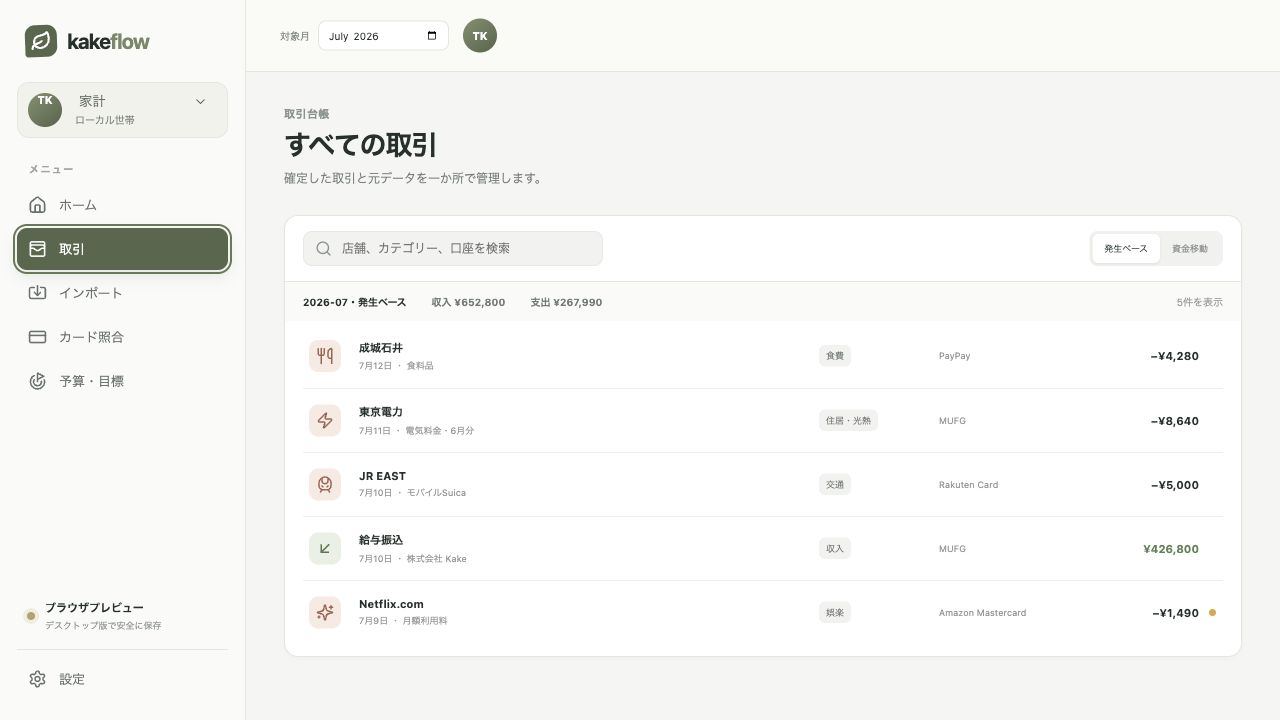
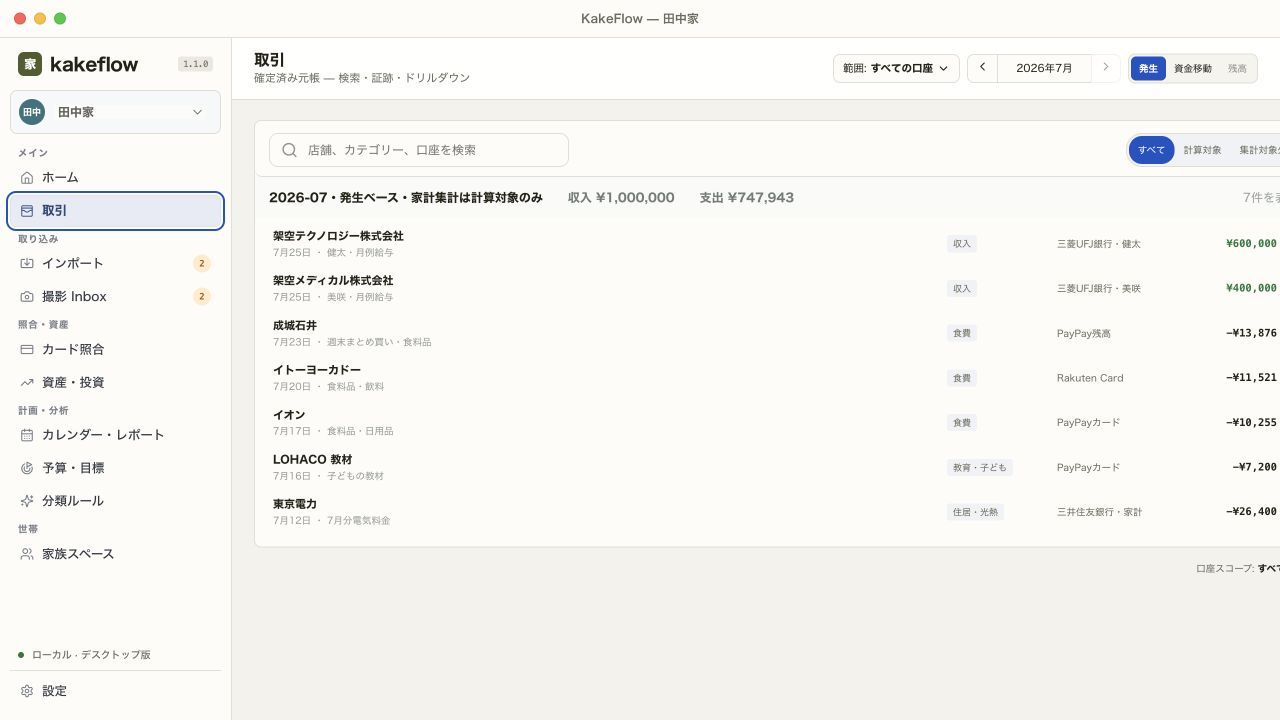
Rewrite KakeFlow page for new UI

diff --git a/apps/kakeflow/index.html b/apps/kakeflow/index.html
@@ -3,18 +3,20 @@
 <head>
   <meta charset="utf-8">
   <meta name="viewport" content="width=device-width, initial-scale=1">
-  <title>KakeFlow — 家計の流れを、正しくひとつに。</title>
-  <meta name="description" content="KakeFlow は、銀行・カード・レシート・証券データを、根拠の残る家計簿へまとめる開発中のローカルファースト・デスクトップアプリです。">
+  <title>KakeFlow — 記録から、次のアクションへ。</title>
+  <meta name="description" content="KakeFlow は、家計データを端末内で取り込み、確認し、根拠の残る台帳から次に必要なアクションまで見渡せる、開発中のローカルファースト・デスクトップアプリです。">
   <link rel="canonical" href="https://thangldw.github.io/apps/kakeflow/">
   <meta property="og:type" content="website">
-  <meta property="og:title" content="KakeFlow — Coming soon">
-  <meta property="og:description" content="ばらばらな家計データを、照合できる台帳とダッシュボードへ。">
+  <meta property="og:title" content="KakeFlow — 記録から、次のアクションへ。">
+  <meta property="og:description" content="取り込み、確認、照合、計画を、ひとつの家計ワークスペースで。">
   <meta property="og:url" content="https://thangldw.github.io/apps/kakeflow/">
   <meta property="og:image" content="https://thangldw.github.io/apps/kakeflow/assets/screenshots/kakeflow-overview.png">
+  <meta property="og:image:width" content="1280">
+  <meta property="og:image:height" content="720">
   <meta name="twitter:card" content="summary_large_image">
   <meta name="theme-color" content="#f7f6f1">
   <link rel="icon" href="/favicon.svg" type="image/svg+xml">
-  <link rel="stylesheet" href="kakeflow-page.css?v=20260714">
+  <link rel="stylesheet" href="kakeflow-page.css?v=20260716">
   <script defer src="/js/analytics.js"></script>
 </head>
 <body>
@@ -25,10 +27,10 @@
       <a class="wordmark" href="#top" aria-label="KakeFlow ホーム">kake<span>flow</span></a>
       <button class="menu-toggle" type="button" aria-expanded="false" aria-controls="primary-nav">メニュー</button>
       <nav id="primary-nav" aria-label="ページ内ナビゲーション">
-        <a href="#workflow">仕組み</a>
+        <a href="#workflow">使い方</a>
         <a href="#screens">画面</a>
-        <a href="#investments">投資管理</a>
-        <a href="#roadmap">公開予定</a>
+        <a href="#workspaces">できること</a>
+        <a href="#release">リリース</a>
       </nav>
       <a class="button button-small button-outline" href="/apps/">All projects</a>
     </div>
@@ -39,132 +41,132 @@
       <div class="hero-shell">
         <div class="hero-copy">
           <p class="status-line"><span aria-hidden="true"></span>COMING SOON · PRIVATE DEVELOPMENT</p>
-          <p class="eyebrow">HOUSEHOLD FINANCE, WITH A TRACEABLE SOURCE</p>
-          <h1>家計の流れを、<br><em>正しくひとつに。</em></h1>
-          <p class="hero-lede">銀行、カード、PayPay、レシート、PDF、証券口座。ばらばらの記録をあなたのパソコンでつなぎ、二重計上を防ぎながら、数字の根拠までたどれる家計簿を目指しています。</p>
+          <p class="eyebrow">FROM HOUSEHOLD RECORDS TO THE NEXT ACTION</p>
+          <h1>家計を記録する。<br><em>次にやることまでわかる。</em></h1>
+          <p class="hero-lede">銀行、カード、レシート、電子マネー、証券口座。ばらばらの記録を端末内で取り込み、確認が必要な項目を先に整理。確定した台帳から、今月の状況と次のアクションをひとつの画面で見渡せます。</p>
           <div class="hero-actions">
             <span class="button button-primary button-disabled">Coming soon</span>
-            <a class="button button-paper" href="#workflow">プロダクトの仕組みを見る</a>
+            <a class="button button-paper" href="#workflow">新しい使い方を見る</a>
           </div>
-          <p class="release-note">このページは開発中プロダクトのプレビューです。ソースコード、ダウンロード、リリースはまだ公開していません。</p>
+          <p class="release-note">掲載画面は開発中の UI プレビューです。ソースコード、ダウンロード、正式なリリース日はまだ公開していません。</p>
           <ul class="trust-row" aria-label="KakeFlow の基本原則">
             <li><strong>Local-first</strong><span>家計データは端末内で処理</span></li>
-            <li><strong>Evidence-linked</strong><span>元ファイル・行まで追跡</span></li>
-            <li><strong>Review first</strong><span>確認前に台帳へ記帳しない</span></li>
+            <li><strong>Review-gated</strong><span>確認してから台帳へ反映</span></li>
+            <li><strong>Evidence-linked</strong><span>数字から原本まで追跡</span></li>
           </ul>
         </div>
 
         <figure class="hero-product">
-          <div class="product-bar" aria-hidden="true"><span></span><span></span><span></span><b>KakeFlow · Preview</b></div>
-          <img src="assets/screenshots/kakeflow-overview.png" width="1280" height="1073" alt="KakeFlow の家計概要。純資産、収入、支出、収支推移、最近の取引、カード支払いを表示" fetchpriority="high">
-          <figcaption>家計簿・キャッシュフロー・資産負債を、同じ確定済み台帳から表示します。</figcaption>
+          <div class="product-bar" aria-hidden="true"><span></span><span></span><span></span><b>KakeFlow — 田中家</b></div>
+          <img src="assets/screenshots/kakeflow-overview.png" width="1280" height="720" alt="KakeFlow のホーム画面。純資産、収入、支出、貯蓄見込み、アクションセンター、収支推移を表示" fetchpriority="high">
+          <figcaption>Home は集計結果だけでなく、カード引落、予算超過、重複候補、低信頼度 OCR など、対応が必要な項目を先に示します。</figcaption>
         </figure>
       </div>
     </section>
 
-    <section class="principles" aria-label="KakeFlow が解決する三つの課題">
-      <article><span>01</span><div><b>原本を一つの Inbox へ</b><p>対応する明細、PDF、画像を同じ場所で確認。</p></div></article>
-      <article><span>02</span><div><b>支払いを二重に数えない</b><p>カード利用と後日の銀行引落を分けて照合。</p></div></article>
-      <article><span>03</span><div><b>数値から原本へ戻れる</b><p>集計から取引、元の行やレシートまで追跡。</p></div></article>
+    <section class="principles" aria-label="新しい KakeFlow の三つの体験">
+      <article><span>01</span><div><b>迷わない Home</b><p>状況、重要アクション、データ品質を同じ入口に。</p></div></article>
+      <article><span>02</span><div><b>確認してから記帳</b><p>マッピング、重複、OCR をレビューして確定。</p></div></article>
+      <article><span>03</span><div><b>視点をすぐ切り替える</b><p>口座・家族・発生・資金移動の範囲を明示。</p></div></article>
     </section>
 
     <section class="section workflow-section" id="workflow">
       <div class="section-head split-head">
-        <div><p class="eyebrow">ONE REVIEWABLE DATA FLOW</p><h2>原本から家計簿まで、<br>一つの見える流れに。</h2></div>
-        <p>ファイルはそのまま取引になりません。原本を保存し、抽出候補を照合し、人が確認した取引だけを台帳へ記帳する設計です。</p>
+        <div><p class="eyebrow">ONE REVIEWABLE HOUSEHOLD FLOW</p><h2>集める。確かめる。<br>判断する。</h2></div>
+        <p>KakeFlow は、ファイルを入れた瞬間に家計を上書きしません。原本を残し、候補をレビューし、確定した取引だけを台帳とレポートへつなぎます。</p>
       </div>
 
       <div class="workflow-board" id="workflow-board">
         <canvas id="workflow-lines" aria-hidden="true"></canvas>
-        <div class="board-label">KakeFlow household data canvas</div>
+        <div class="board-label">KakeFlow reviewable household flow</div>
         <section class="board-cluster source-cluster" aria-labelledby="source-title">
-          <p id="source-title">01 · SOURCES</p>
+          <p id="source-title">01 · COLLECT</p>
           <div class="source-list">
-            <article class="board-node source-node" data-node="bank"><b>銀行口座</b><span>CSV・取引明細</span></article>
-            <article class="board-node source-node" data-node="card"><b>クレジットカード</b><span>CSV・PDF 明細</span></article>
-            <article class="board-node source-node" data-node="wallet"><b>PayPay・電子マネー</b><span>複数行イベント</span></article>
-            <article class="board-node source-node" data-node="receipt"><b>レシート・PDF</b><span>画像・スキャン</span></article>
-            <article class="board-node source-node" data-node="securities"><b>証券口座</b><span>残高・取引履歴</span></article>
+            <article class="board-node source-node" data-node="bank"><b>銀行・電子マネー</b><span>CSV・XLSX・明細</span></article>
+            <article class="board-node source-node" data-node="card"><b>カード</b><span>利用明細・請求・引落</span></article>
+            <article class="board-node source-node" data-node="wallet"><b>フォルダ・メール</b><span>ローカル・Drive・Gmail</span></article>
+            <article class="board-node source-node" data-node="receipt"><b>撮影 Inbox</b><span>レシート画像・PDF・OCR</span></article>
+            <article class="board-node source-node" data-node="securities"><b>証券・資産</b><span>残高・取引・為替</span></article>
           </div>
         </section>
         <section class="board-cluster process-cluster" aria-labelledby="process-title">
-          <p id="process-title">02 · EXTRACT</p>
-          <article class="board-node sticky lavender" data-node="inbox"><small>IMMUTABLE</small><b>Import Inbox</b><span>原本を保管し形式を判定</span></article>
-          <article class="board-node sticky yellow" data-node="extract"><small>LOCAL</small><b>Extract・OCR</b><span>日付、金額、明細、証拠位置</span></article>
+          <p id="process-title">02 · DETECT</p>
+          <article class="board-node sticky lavender" data-node="inbox"><small>SOURCE KEPT</small><b>Import Inbox</b><span>形式と処理段階を見える化</span></article>
+          <article class="board-node sticky yellow" data-node="extract"><small>ON DEVICE</small><b>抽出・OCR</b><span>日付、金額、明細、証拠位置</span></article>
         </section>
         <section class="board-cluster integrity-cluster" aria-labelledby="integrity-title">
-          <p id="integrity-title">03 · RECONCILE</p>
-          <article class="board-node sticky coral" data-node="dedupe"><b>重複・振替を照合</b><span>同じ支出を一件にまとめる</span></article>
-          <article class="board-node sticky blue" data-node="receipt-match"><b>レシートをリンク</b><span>明細の証拠として関連付け</span></article>
-          <article class="board-node sticky pink" data-node="card-match"><b>カード支払いを照合</b><span>銀行引落を負債返済へ</span></article>
+          <p id="integrity-title">03 · REVIEW</p>
+          <article class="board-node sticky coral" data-node="dedupe"><b>マッピング・重複</b><span>口座、カテゴリ、振替候補を確認</span></article>
+          <article class="board-node sticky blue" data-node="receipt-match"><b>根拠をリンク</b><span>元行、PDF、レシートへ戻れる</span></article>
+          <article class="board-node sticky pink" data-node="card-match"><b>カード照合</b><span>請求と引落を負債返済へ</span></article>
         </section>
         <section class="ledger-hub" aria-labelledby="ledger-title">
-          <span>04 · CONFIRM</span><b id="ledger-title">確定済み台帳</b><small>発生ベースの複式記帳</small>
+          <span>04 · POST</span><b id="ledger-title">確定済み台帳</b><small>未確認候補は集計しない</small>
         </section>
         <section class="board-cluster outcome-cluster" aria-labelledby="outcome-title">
-          <p id="outcome-title">05 · UNDERSTAND</p>
-          <article class="board-node outcome-node" data-node="household"><b>家計簿</b><span>収支・予算・カテゴリ</span></article>
-          <article class="board-node outcome-node" data-node="cashflow"><b>キャッシュフロー</b><span>実際の入出金</span></article>
-          <article class="board-node outcome-node" data-node="balance"><b>資産・負債</b><span>純資産とカード未払</span></article>
-          <article class="board-node outcome-node" data-node="portfolio"><b>投資ポートフォリオ</b><span>評価額・損益・配分</span></article>
+          <p id="outcome-title">05 · ACT</p>
+          <article class="board-node outcome-node" data-node="household"><b>Home</b><span>状況・アクション・品質</span></article>
+          <article class="board-node outcome-node" data-node="cashflow"><b>取引・照合</b><span>検索・修正・ドリルダウン</span></article>
+          <article class="board-node outcome-node" data-node="balance"><b>計画・分析</b><span>予算・予測・固定費</span></article>
+          <article class="board-node outcome-node" data-node="portfolio"><b>資産・家族</b><span>純資産・投資・共有範囲</span></article>
         </section>
       </div>
 
-      <aside class="card-rule" aria-labelledby="card-rule-title">
-        <div><p class="eyebrow">CARD PAYMENT RULE</p><h3 id="card-rule-title">カード利用は一度だけ支出にする。</h3><p>購入時に費用とカード負債を記録し、後日の銀行引落は負債の返済として扱います。</p></div>
+      <aside class="card-rule" aria-labelledby="review-rule-title">
+        <div><p class="eyebrow">REVIEW GATE</p><h3 id="review-rule-title">未確認の候補を、確定した数字に混ぜない。</h3><p>処理段階と確認理由を見せることで、「どこまで集計済みか」と「次に何を直すか」を迷わず判断できます。</p></div>
         <ol>
-          <li><span>7/3</span><b>カードで買い物</b><strong>支出 ¥5,400</strong></li>
-          <li><span>7/27</span><b>銀行から引落</b><strong>負債 −¥5,400</strong></li>
-          <li><span>結果</span><b>支出は一件</b><strong>二重計上なし</strong></li>
+          <li><span>検出</span><b>原本と形式を保存</b><strong>集計外</strong></li>
+          <li><span>レビュー</span><b>口座・重複・根拠を確認</b><strong>判断待ち</strong></li>
+          <li><span>転記</span><b>確定済み台帳へ反映</b><strong>集計対象</strong></li>
         </ol>
       </aside>
     </section>
 
     <section class="section screens-section" id="screens">
       <div class="section-head split-head">
-        <div><p class="eyebrow">PRODUCT PREVIEW</p><h2>数字を見る。<br>根拠まで確かめる。</h2></div>
-        <p>集計だけで終わらず、取引、取り込み候補、元ファイルへ段階的に戻れる体験を設計しています。</p>
+        <div><p class="eyebrow">CURRENT v1.1 UI</p><h2>目的ごとに分かれ、<br>同じ台帳でつながる。</h2></div>
+        <p>Home、取引、インポートの各画面は、役割をひとつに絞っています。どの画面でも対象月と集計範囲が明示され、次の作業へそのまま移動できます。</p>
       </div>
       <div class="screen-showcase">
         <div class="screen-tabs" role="tablist" aria-label="KakeFlow の画面">
-          <button id="tab-overview" role="tab" aria-selected="true" aria-controls="screen-panel" data-screen="overview" type="button"><b>家計の概要</b><span>収支・純資産・カード支払い</span></button>
-          <button id="tab-transactions" role="tab" aria-selected="false" aria-controls="screen-panel" data-screen="transactions" type="button" tabindex="-1"><b>取引台帳</b><span>検索・分類・証拠リンク</span></button>
-          <button id="tab-import" role="tab" aria-selected="false" aria-controls="screen-panel" data-screen="import" type="button" tabindex="-1"><b>Import Inbox</b><span>候補・重複・照合をレビュー</span></button>
+          <button id="tab-overview" role="tab" aria-selected="true" aria-controls="screen-panel" data-screen="overview" type="button"><b>Home</b><span>状況・アクション・データ品質</span></button>
+          <button id="tab-transactions" role="tab" aria-selected="false" aria-controls="screen-panel" data-screen="transactions" type="button" tabindex="-1"><b>取引</b><span>確定済み台帳・検索・証跡</span></button>
+          <button id="tab-import" role="tab" aria-selected="false" aria-controls="screen-panel" data-screen="import" type="button" tabindex="-1"><b>Import Inbox</b><span>検出・レビュー・転記</span></button>
         </div>
         <figure id="screen-panel" role="tabpanel" aria-labelledby="tab-overview">
-          <img id="screen-image" src="assets/screenshots/kakeflow-overview.png" width="1280" height="1073" alt="KakeFlow 家計の概要画面">
-          <figcaption id="screen-caption"><b>家計の概要</b><span>支出、キャッシュフロー、カード負債の状態を一画面で把握します。</span></figcaption>
+          <img id="screen-image" src="assets/screenshots/kakeflow-overview.png" width="1280" height="720" alt="KakeFlow の Home 画面">
+          <figcaption id="screen-caption"><b>Home</b><span>世帯の状況、優先アクション、確定データの品質をひとつの入口で確認します。</span></figcaption>
         </figure>
       </div>
     </section>
 
-    <section class="section investment-section" id="investments">
+    <section class="section investment-section" id="workspaces">
       <div class="investment-copy">
-        <p class="eyebrow">INVESTMENTS, SEPARATE FROM SPENDING</p>
-        <h2>投資も、家計の全体像へ。</h2>
-        <p>証券残高は日常の支出に変換せず、別のポートフォリオとして保存。銘柄・現金・為替レートを、評価額と損益の観点で純資産へ統合します。</p>
+        <p class="eyebrow">TEN FOCUSED WORKSPACES, ONE LEDGER</p>
+        <h2>日々の記録から、<br>家族の計画まで。</h2>
+        <p>新しいナビゲーションは、機能名の羅列ではなく、家計管理の仕事に沿って整理されています。取り込み、照合、分析、共有が別々のツールに分断されません。</p>
       </div>
-      <div class="investment-board" aria-label="KakeFlow の投資管理構想">
-        <article><span>01</span><b>残高スナップショット</b><p>口座・銘柄・数量・為替レートを履歴として保持。</p></article>
-        <article><span>02</span><b>取引履歴</b><p>対応する売買を元行とともに取り込み、確認可能に。</p></article>
-        <article><span>03</span><b>評価と損益</b><p>評価額、実現・含み損益、配当、手数料、税を整理。</p></article>
+      <div class="investment-board" aria-label="KakeFlow のワークスペース">
+        <article><span>01</span><b>取り込み</b><p>Import Inbox と撮影 Inbox で、ファイル、メール添付、レシートを同じレビュー体験へ。</p></article>
+        <article><span>02</span><b>照合・資産</b><p>カード請求と銀行引落を照合し、資産・投資は日常支出と分けて純資産へ統合。</p></article>
+        <article><span>03</span><b>計画・世帯</b><p>カレンダー、月次・年次レポート、予算、目標、分類ルール、家族スペースまで連携。</p></article>
       </div>
     </section>
 
-    <section class="section boundaries-section" id="roadmap">
+    <section class="section boundaries-section" id="release">
       <div class="section-head split-head">
         <div><p class="eyebrow">HONEST PREVIEW BOUNDARY</p><h2>開発中の現在。<br>公開までのこれから。</h2></div>
-        <p>このページは方向性を先行公開するためのものです。利用可能なプロダクトやリリースを示すものではありません。</p>
+        <p>このページは、新しい KakeFlow の体験を先行公開するものです。今すぐ利用できる製品や正式リリースを示すものではありません。</p>
       </div>
       <div class="boundary-grid">
-        <article class="available"><span>IN DEVELOPMENT</span><h3>現在検証していること</h3><ul><li>ローカル取り込みと明示的レビュー</li><li>銀行・カード・電子マネーの照合</li><li>家計、Cash Flow、資産負債、投資の統合表示</li><li>元ファイルまで戻れる根拠の設計</li></ul></article>
-        <article><span>BEFORE PUBLIC LAUNCH</span><h3>公開前に仕上げること</h3><ul><li>配布と更新の安全な経路</li><li>対応形式と制約の明確な文書化</li><li>macOS・Windows の検証</li><li>プライバシーとデータ保護の説明</li></ul></article>
-        <article class="limitations"><span>PREVIEW LIMITS</span><h3>今はまだ提供しないもの</h3><ul><li>アプリのダウンロード</li><li>ソースコードと private repository</li><li>正式な対応金融機関一覧</li><li>リリース日と価格</li></ul></article>
+        <article class="available"><span>IN DEVELOPMENT</span><h3>現在検証していること</h3><ul><li>仕事別に再編したサイドナビゲーション</li><li>Home の Action Center と Data Quality</li><li>撮影 Inbox、予算・目標、分類ルール、家族スペース</li><li>口座・家族・計上基準のスコープ操作</li></ul></article>
+        <article><span>BEFORE PUBLIC LAUNCH</span><h3>公開前に仕上げること</h3><ul><li>macOS・Windows の配布と更新経路</li><li>対応する金融機関・形式・制約の文書化</li><li>バックアップ、復元、データ保護の説明</li><li>実データを使った packaged app の検証</li></ul></article>
+        <article class="limitations"><span>PREVIEW LIMITS</span><h3>今はまだ提供しないもの</h3><ul><li>アプリの一般ダウンロード</li><li>ソースコードと private repository</li><li>正式な対応金融機関一覧</li><li>リリース日、価格、サポート条件</li></ul></article>
       </div>
     </section>
 
     <section class="closing-section">
-      <div><p class="eyebrow">LOCAL-FIRST · REVIEWABLE · COMING SOON</p><h2>正しい家計簿を、<br>あなたのパソコンで。</h2></div>
+      <div><p class="eyebrow">LOCAL-FIRST · REVIEWABLE · ACTIONABLE</p><h2>家計の数字を、<br>次の判断につなげる。</h2></div>
       <div class="closing-actions"><span class="button button-primary button-disabled">Coming soon</span><a class="button button-paper" href="/apps/">Back to projects</a></div>
     </section>
   </main>
@@ -175,6 +177,6 @@
     <p>© 2026 KakeFlow · Preview</p>
   </footer>
 
-  <script src="kakeflow-page.js?v=20260714"></script>
+  <script src="kakeflow-page.js?v=20260716"></script>
 </body>
 </html>

diff --git a/apps/kakeflow/kakeflow-page.js b/apps/kakeflow/kakeflow-page.js
@@ -24,26 +24,26 @@
     overview: {
       src: "assets/screenshots/kakeflow-overview.png",
       width: 1280,
-      height: 1073,
-      title: "家計の概要",
-      alt: "KakeFlow 家計の概要画面",
-      description: "支出、キャッシュフロー、カード負債の状態を一画面で把握します。",
+      height: 720,
+      title: "Home",
+      alt: "KakeFlow の Home 画面",
+      description: "世帯の状況、優先アクション、確定データの品質をひとつの入口で確認します。",
     },
     transactions: {
       src: "assets/screenshots/kakeflow-transactions.png",
       width: 1280,
       height: 720,
-      title: "取引台帳",
-      alt: "KakeFlow の検索可能な取引台帳画面",
-      description: "カテゴリやタグを整理し、取引から元のファイルやレシートへ戻れます。",
+      title: "取引",
+      alt: "KakeFlow の確定済み取引画面",
+      description: "対象月、口座、家族、計上基準を切り替えながら、確定済み台帳を検索します。",
     },
     import: {
       src: "assets/screenshots/kakeflow-import-inbox.png",
       width: 1280,
-      height: 770,
-      title: "Import Inbox",
+      height: 720,
+      title: "インポート Inbox",
       alt: "KakeFlow の Import Inbox 画面",
-      description: "取り込み候補、重複、振替、カード支払い、確認が必要な抽出結果をレビューします。",
+      description: "ファイルの検出から抽出、マッピング、レビュー、転記までの処理段階を確認します。",
     },
   };
 
